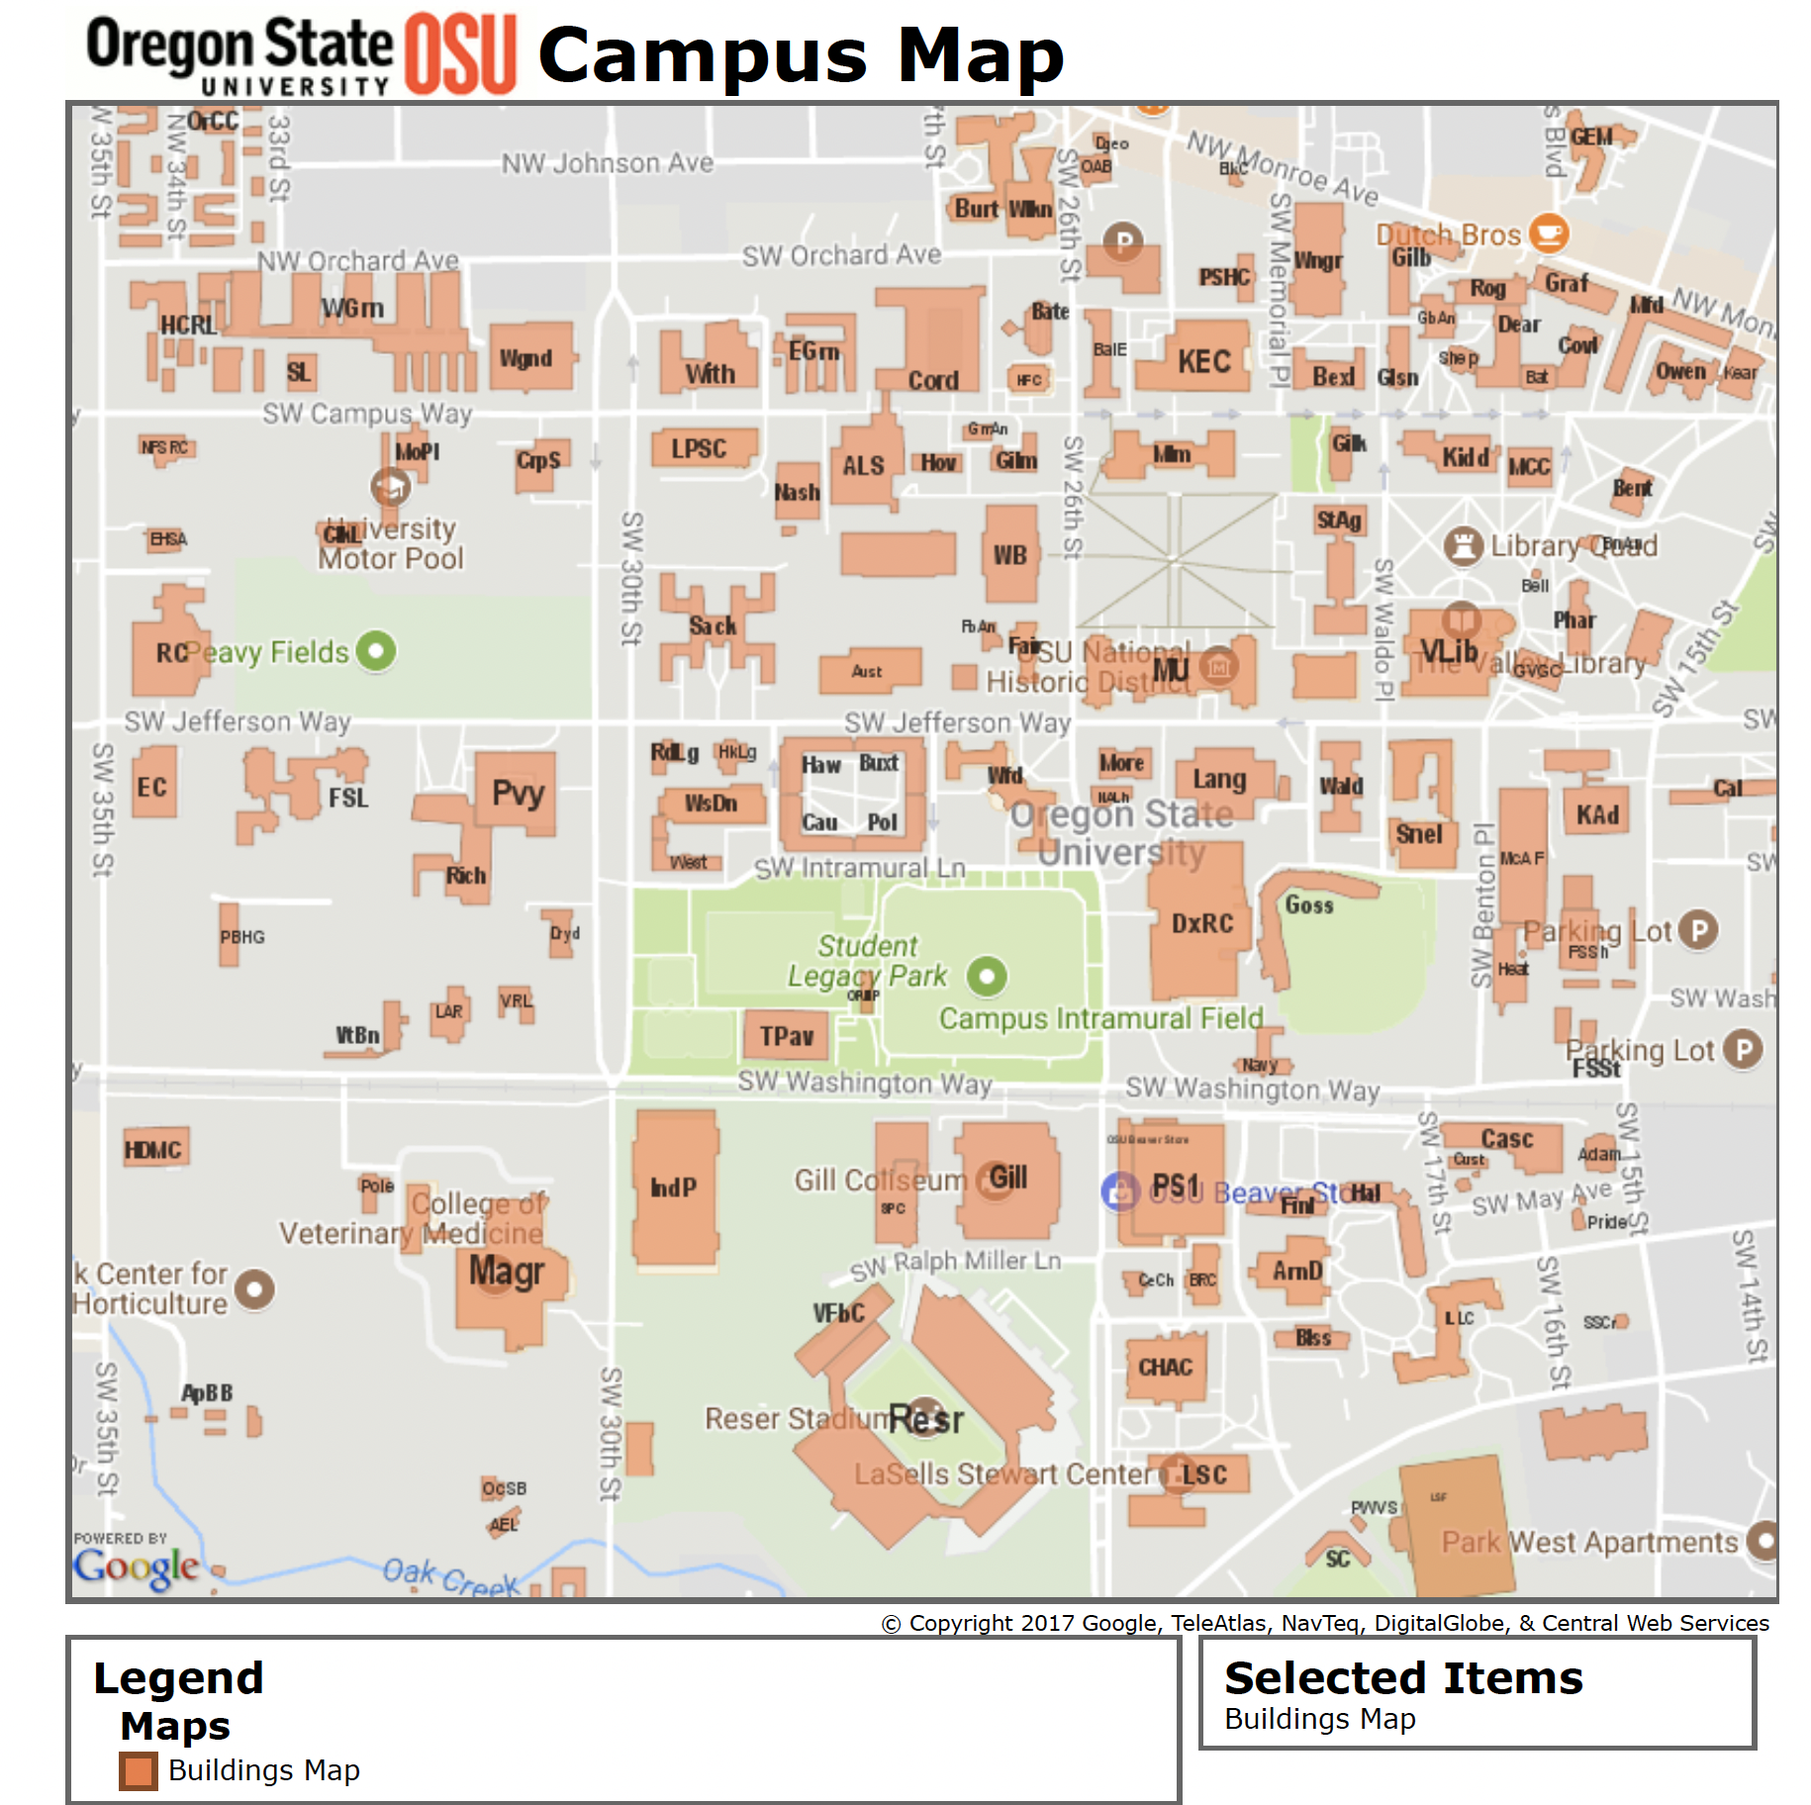
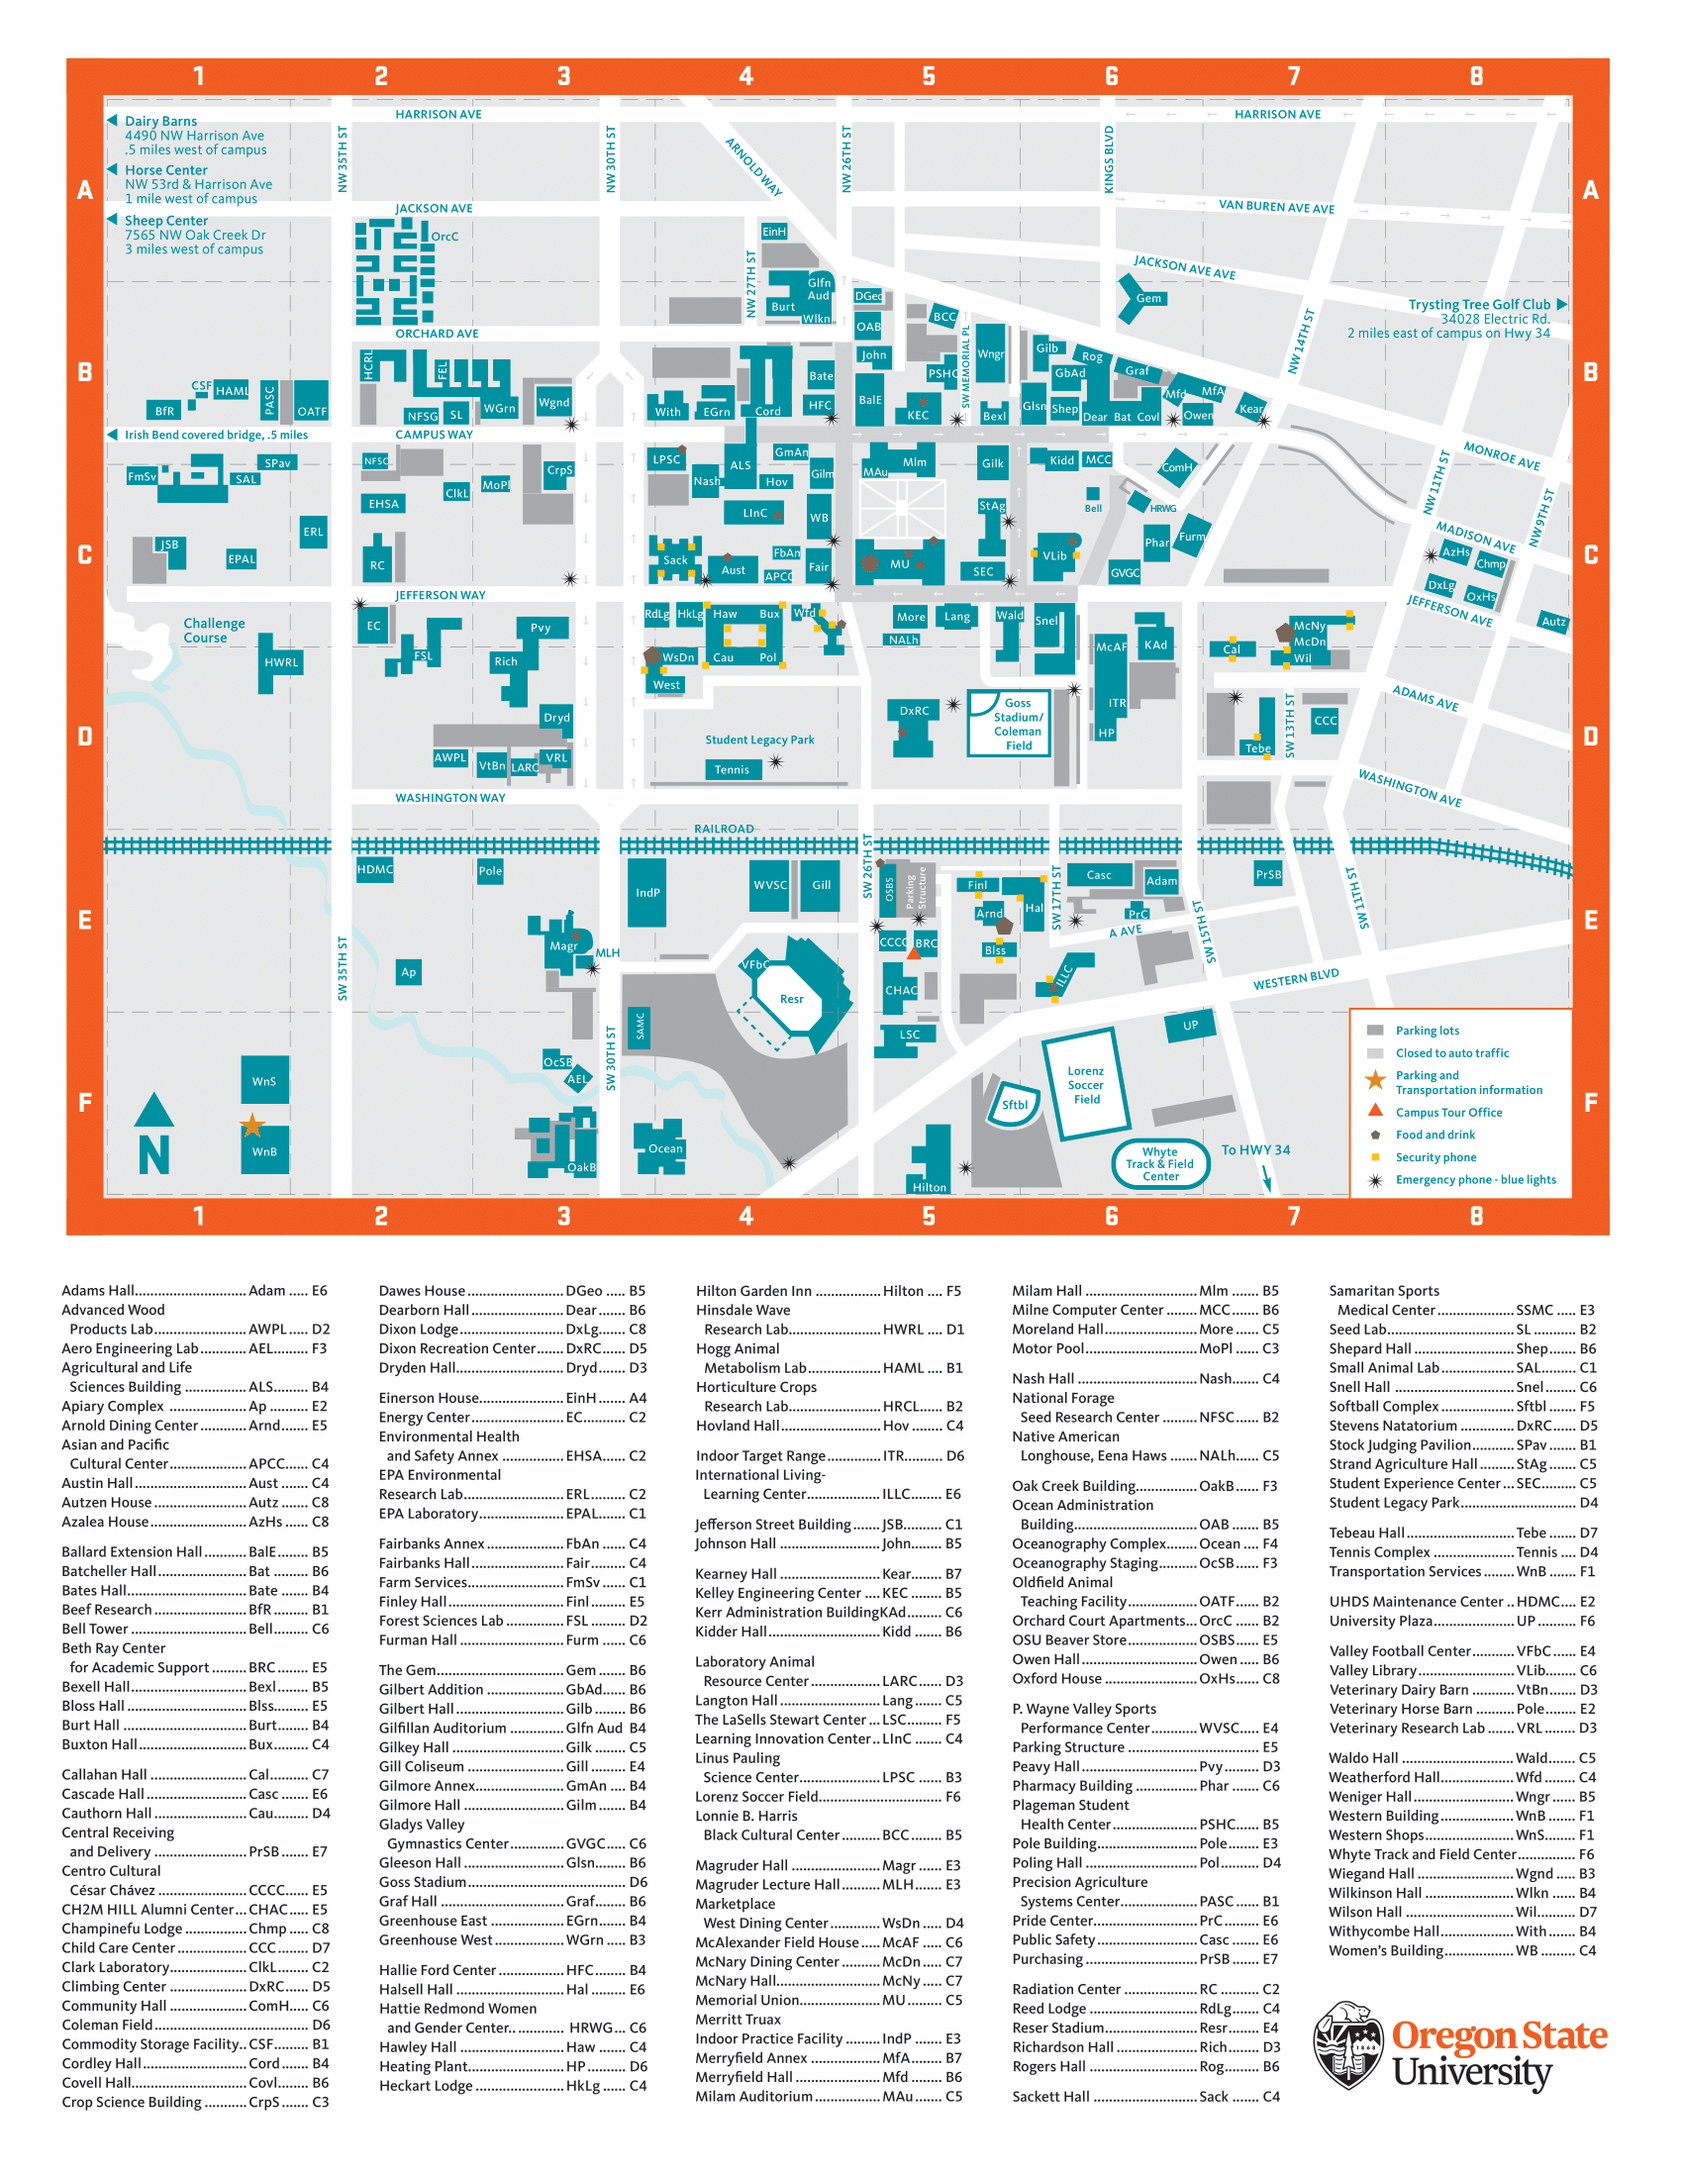
adds back in campus map (#653)

diff --git a/app/javascript/react/components/presentational/Interactive/Menu.js b/app/javascript/react/components/presentational/Interactive/Menu.js
@@ -40,6 +40,16 @@ class Menu extends Component {
             <span className={"menu-item-text"}>Maps</span>
           </a>
         </li>
+				<li className="show-campus-maps" onClick={this.props.campusMapsClicked}>
+          <a
+            className={`btn btn-navbar btn-default ${
+              this.props.selectedMenuItem == "campus-maps" ? "menu-item-selected" : ""
+            }`}
+          >
+            <img className={"menu-item-icon"} src={"/images/map-marker.svg"} />
+            <span className={"menu-item-text"}>Campus</span>
+          </a>
+        </li>
         <li
           className="show-search-primo"
           onClick={this.props.searchPrimoClicked}

diff --git a/app/javascript/react/components/presentational/Interactive/CampusMap.js b/app/javascript/react/components/presentational/Interactive/CampusMap.js
@@ -14,7 +14,7 @@ class CampusMap extends Component {
 
   render() {
     return (
-      <div></div>
+      <img src={MyImage} alt="Test" height="120%" width="53%" />
     )
   }
 }
